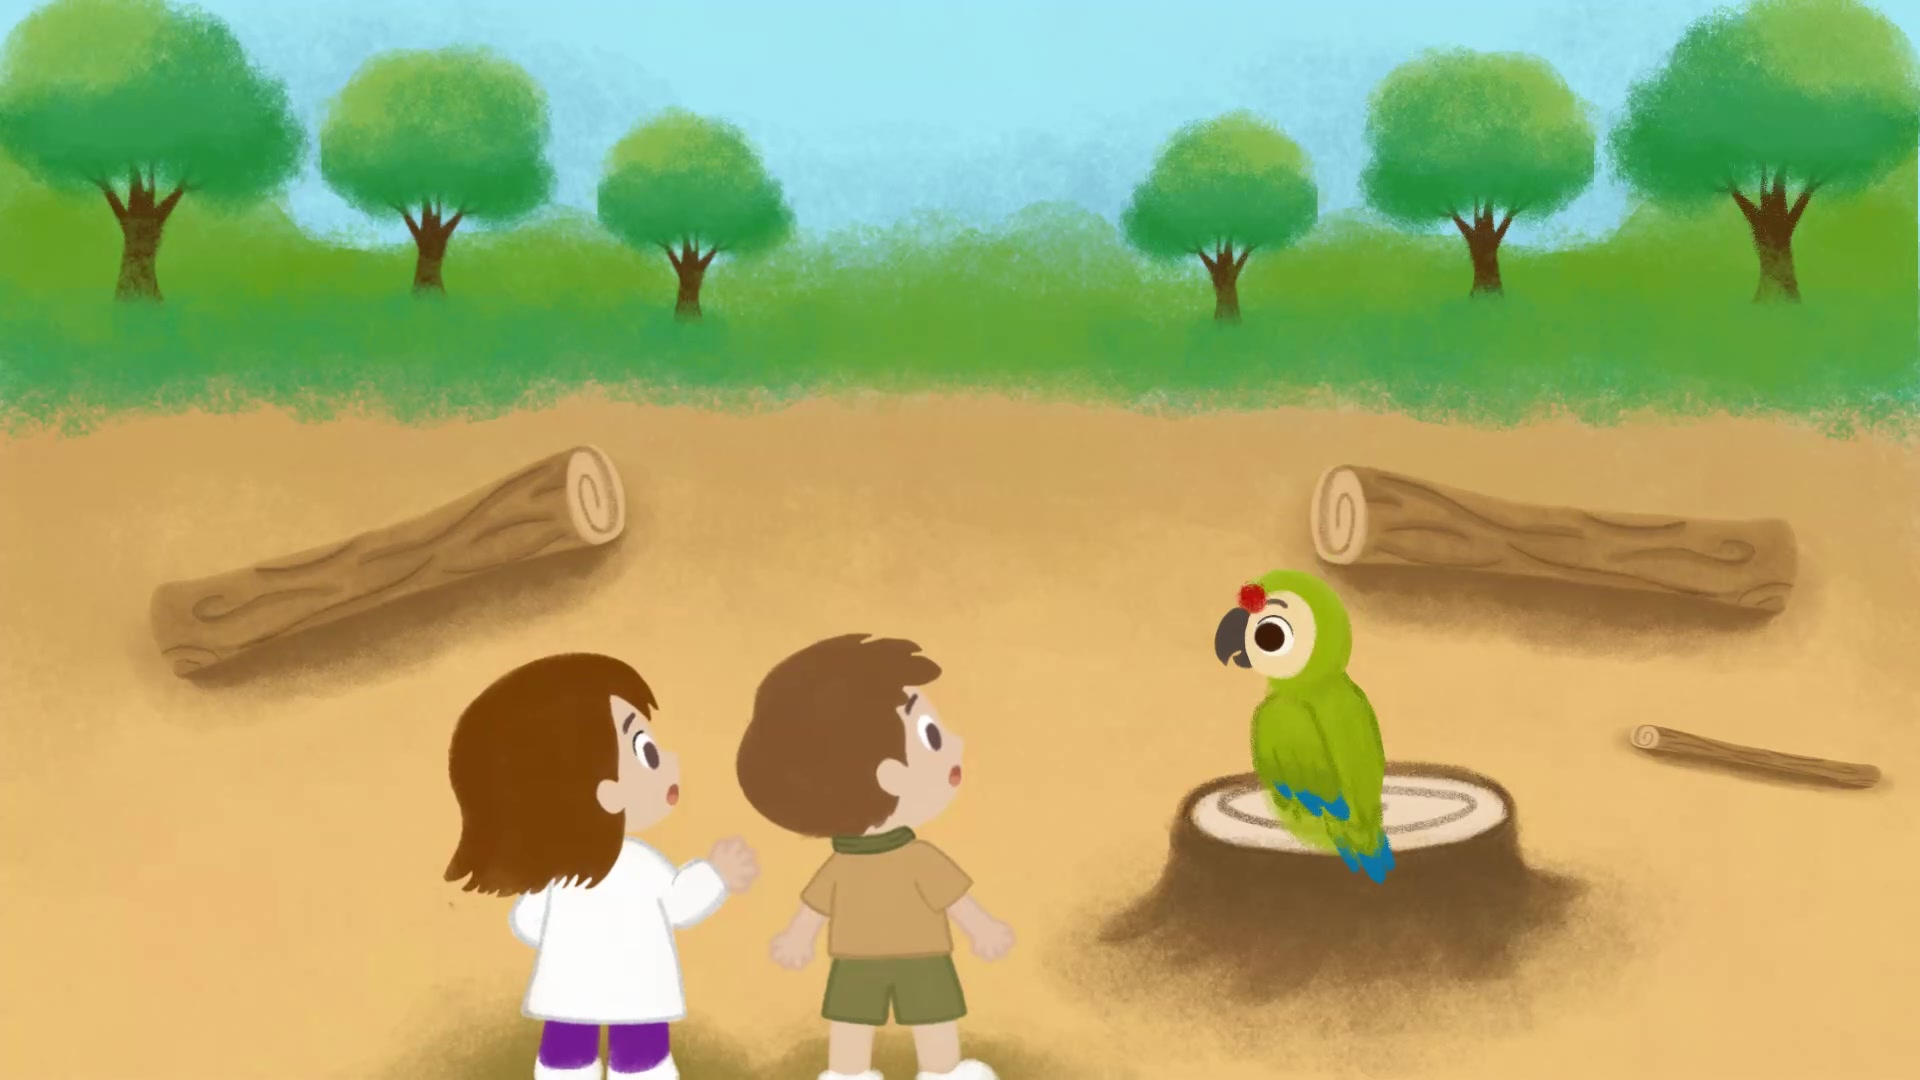
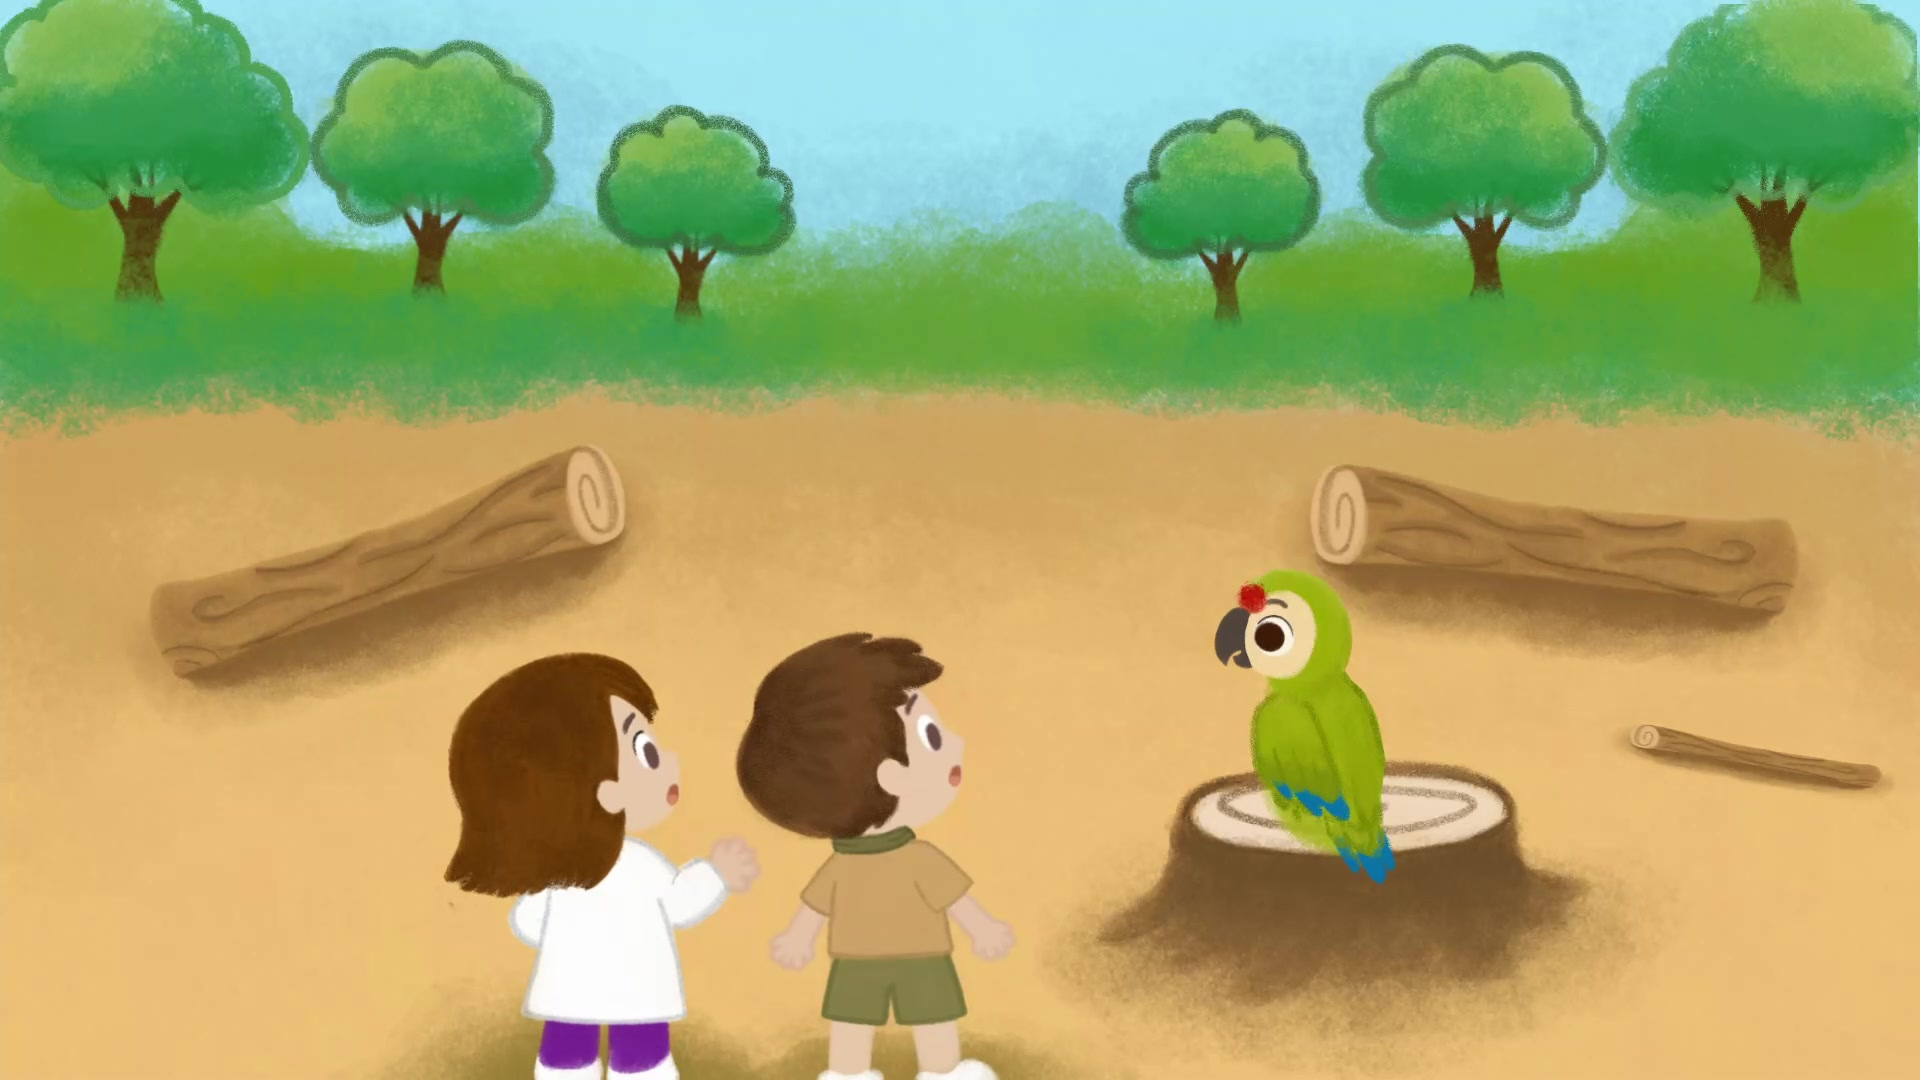
feat: actualizar escenas y textos para mejorar la narrativa y la experiencia visual

diff --git a/app/features/story/story.data.ts b/app/features/story/story.data.ts
@@ -295,22 +295,42 @@ export const STORY_SCENES = [
     videoSrc: "/assets/ANIMACIONES/P15.mp4",
     posterSrc: "/assets/POSTERS/P15.jpg",
     copyBlocks: [{
-      text: "Al proteger la pequeña planta, Lola y Mario descubrieron que el pergamino mostraba una nueva palabra: “COSTA”, la primera insignia que habían obtenido en su aventura.",
-      top: 71.8,
-      left: 52.6,
-      width: 37.7,
-      align: "center",
+      text: "Lola y Mario habían obtenido\nsu primera insignia. Su forma\nrepresentaba el pico del\nguacamayo verde mayor.",
+      top: 9.4,
+      left: 2.5,
+      width: 27,
+      align: "left",
       tone: "dark",
     }],
-    interaction: { type: "cipher", word: "COSTA" },
+  },
+  {
+    id: "remolino-hacia-la-sierra",
+    title: "Un nuevo destino",
+    videoSrc: "/assets/ANIMACIONES/P16.mp4",
+    posterSrc: "/assets/POSTERS/P16.jpg",
+    copyBlocks: [],
+  },
+  {
+    id: "bosque-de-neblina",
+    title: "Entre montañas y neblina",
+    videoSrc: "/assets/ANIMACIONES/P17.mp4",
+    posterSrc: "/assets/POSTERS/P17.jpg",
+    copyBlocks: [{
+      text: "El bosque se cubrió de neblina y, en un instante, Lola y Mario aparecieron entre montañas y árboles húmedos.",
+      top: 6.6,
+      left: 15.9,
+      width: 71.2,
+      align: "center",
+      tone: "light",
+    }],
   },
   {
     id: "oso-de-anteojos",
-    title: "Entre montañas y neblina",
-    videoSrc: "/assets/ANIMACIONES/P16.mp4",
-    posterSrc: "/assets/POSTERS/P16.jpg",
+    title: "El oso de anteojos",
+    videoSrc: "/assets/ANIMACIONES/P18.mp4",
+    posterSrc: "/assets/POSTERS/P18.jpg",
     copyBlocks: [{
-      text: "El bosque se cubrió de neblina y, en un instante, Lola y Mario aparecieron entre montañas y árboles húmedos. Allí encontraron un oso con manchas claras alrededor de los ojos.\n—Cada oso de anteojos tiene marcas diferentes —les contó—. Son como nuestro propio rostro.",
+      text: "Allí encontraron un oso con manchas claras alrededor de los ojos.\n—Cada oso de anteojos tiene marcas diferentes —les contó—. Son como nuestro propio rostro.",
       top: 6.9,
       left: 24.4,
       width: 51.2,
@@ -318,20 +338,5 @@ export const STORY_SCENES = [
       tone: "dark",
     }],
     interaction: { type: "bear" },
-  },
-  {
-    id: "semillas-en-el-camino",
-    title: "Semillas para nuevos bosques",
-    videoSrc: "/assets/ANIMACIONES/P17.mp4",
-    posterSrc: "/assets/POSTERS/P17.jpg",
-    copyBlocks: [{
-      text: "Mientras caminaba buscando frutos, el oso dejaba caer semillas sobre la tierra.\n—Así ayudamos a que nuevas plantas crezcan en distintos lugares.",
-      top: 6.6,
-      left: 15.9,
-      width: 71.2,
-      align: "center",
-      tone: "dark",
-    }],
-    interaction: { type: "ending", word: "SIERRA" },
   },
 ] as const satisfies readonly StoryScene[];

diff --git a/app/components/story/StoryStage.tsx b/app/components/story/StoryStage.tsx
@@ -55,7 +55,9 @@ export function StoryStage({
   const isLast = sceneIndex === totalScenes - 1;
   const waitsForAnimationEnd = scene.id === "la-biblioteca"
     || scene.id === "un-bosque-enorme"
-    || scene.id === "guacamayo-verde-mayor";
+    || scene.id === "guacamayo-verde-mayor"
+    || scene.id === "remolino-hacia-la-sierra"
+    || scene.id === "bosque-de-neblina";
   const toneFinishesOnce = scene.id === "un-bosque-enorme" || scene.id === "guacamayo-verde-mayor";
   const autoPlays = scene.id === "fondo-1" || scene.id === "mensaje-ayuda";
 

diff --git a/app/globals.css b/app/globals.css
@@ -418,6 +418,18 @@ button:focus-visible, input:focus-visible {
   text-align: right;
 }
 
+.story-stage[data-scene="insignia-costa"] .scene-copy {
+  left: var(--stage-edge-inset);
+  padding-left: 0;
+  text-align: left;
+  white-space: pre;
+}
+
+.story-stage[data-scene="bosque-de-neblina"] .scene-copy,
+.story-stage[data-scene="oso-de-anteojos"] .scene-copy {
+  text-align: center;
+}
+
 .page-arrow {
   position: absolute;
   z-index: 8;
